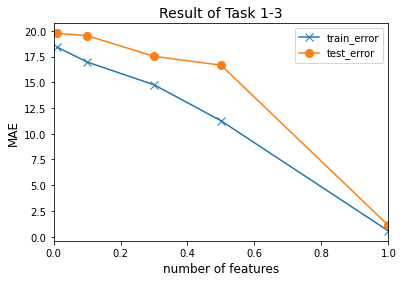
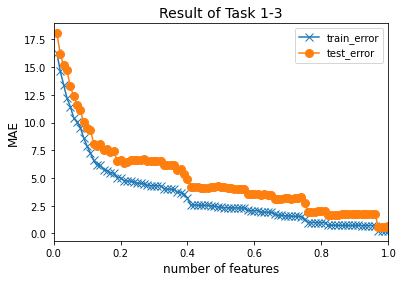
11.03.2022 v2

diff --git a/MyRegressor.py b/MyRegressor.py
@@ -1,7 +1,8 @@
 from sklearn.metrics import mean_absolute_error
+
 import numpy as np
-import random
 from scipy.optimize import linprog
+from sklearn.feature_selection import SelectKBest, f_regression
 
 class MyRegressor:
     def __init__(self, alpha):
@@ -16,49 +17,63 @@ class MyRegressor:
             
         feat_num = int(trainX.shape[1]*percentage)
         
-        maxIter = 100
-        minErr = 1000
-        iter = 0
-        while iter < maxIter:
-            
-            feat_ind = random.sample(range(500),feat_num)
-            err = self.train(trainX[:,feat_ind], trainY)
-            
-            if err < minErr:
-                selected_feat = feat_ind
-                selected_feat.sort()
-                
-            iter += 1
+        selector = SelectKBest(f_regression, k=feat_num)
+        selector.fit_transform(trainX, trainY)
+        feat_bool = selector.get_support()
+        selected_feat = [i for i, x in enumerate(feat_bool) if x]
         
         return selected_feat # The index List of selected features
         
         
-    def select_sample(self, trainX, trainY):
+    def select_sample(self, trainX, trainY, percentage):
         ''' Task 1-4
             Todo: '''
+            
+        N = trainX.shape[0]
+        sample_num = int(trainX.shape[0]*percentage)
+        
+        c = np.linalg.norm(trainX, ord=1, axis=1)
+        A = np.block([
+                      [np.ones([1,N])], 
+                      [-np.ones([1,N])], 
+                      [np.eye(N)],
+                      [-np.eye(N)]
+                      ])
+        b = np.hstack((sample_num, -sample_num, np.ones([N]), np.zeros([N])))
+        integrality = np.ones([N])
+        sol = linprog(c, A_ub=A, b_ub=b, integrality=integrality)
+        
+        sample_bool = sol.x
+        
+        selected_sample = [i for i, x in enumerate(sample_bool) if x]
+        selected_trainX = trainX[selected_sample,:]
+        selected_trainY = trainY[selected_sample]
          
         return selected_trainX, selected_trainY    # A subset of trainX and trainY
 
 
-    def select_data(self, trainX, trainY):
+    def select_data(self, trainX, trainY, p_feature, p_sample):
         ''' Task 1-5
             Todo: '''
         
-        return selected_trainX, selected_trainY
+        selected_feat = self.select_features(trainX, trainY, p_feature)
+        temp_trainX, temp_trainY = self.select_sample(trainX, trainY, p_sample)
+        
+        
+        selected_trainX = temp_trainX[:,selected_feat]
+        selected_trainY = temp_trainY
+        
+        return selected_trainX, selected_trainY, selected_feat
     
     
     def train(self, trainX, trainY):
         ''' Task 1-2
             Todo: '''
-            
         
         Y = trainY
         X = trainX
         N = trainX.shape[0]
         M = trainX.shape[1]
-
-        ## variables: t(N,1), theta(M,1), b(1,1)
-        ## parameters: X(N,M), Y(N,1)
         
         c = np.hstack((1/N*np.ones([1,N]),self.alpha*np.ones([1,M]), np.zeros([1,M+1])))
         A = np.block([
@@ -67,10 +82,9 @@ class MyRegressor:
                       [np.zeros([M,N]), -np.eye(M), np.eye(M), np.zeros([M,1])],
                       [np.zeros([M,N]), -np.eye(M), np.eye(M), np.zeros([M,1])]
                       ])
-        
         b = np.hstack((-Y, Y, np.zeros([M]), np.zeros([M])))
-        
         sol = linprog(c, A_ub=A, b_ub=b)
+        
         self.weight = sol.x[N+M:-1]
         self.bias = sol.x[-1]
         

diff --git a/Task1_5.py b/Task1_5.py
@@ -1,0 +1,44 @@
+import numpy as np
+import utils
+from MyRegressor import MyRegressor
+
+data = utils.prepare_data_gaussian()
+trainX = data['trainX']
+trainY = data['trainY']
+testX = data['testX']
+testY = data['testY']
+
+p_feature_list = np.linspace(0.1,1,10)
+p_sample_list = np.linspace(0.1,1,10)
+train_err  = np.zeros([len(p_feature_list)*len(p_sample_list),1])
+test_err  = np.zeros([len(p_feature_list)*len(p_sample_list),1])
+cost  = np.zeros([len(p_feature_list)*len(p_sample_list)])
+
+c = 0
+    
+for p_feature in p_feature_list:
+    for p_sample in p_sample_list:
+        
+        cost[c] = p_sample*p_feature
+        sol = MyRegressor(alpha=0)
+        selected_trainX, selected_trainY, selected_feat = sol.select_data(trainX, trainY, p_feature, p_sample)
+        train_err[c] = sol.train(selected_trainX, selected_trainY)
+        pred_testY,test_err[c] = sol.evaluate(testX[:,selected_feat], testY)
+        c += 1
+
+seq = np.argsort(cost)
+result = {'taskID':'1-5', 'cost':cost[seq], 'train_err':train_err[seq], 'test_err':test_err[seq]}
+
+utils.plot_result(result)
+
+# p_feature = 0.9
+# p_sample = 0.9
+
+# sol = MyRegressor(alpha=0)
+
+# selected_feat = sol.select_features(trainX, trainY, p_feature)
+# temp_trainX, temp_trainY = sol.select_sample(trainX, trainY, p_sample)
+
+
+# selected_trainX = temp_trainX[:,selected_feat]
+# selected_trainY = temp_trainY

diff --git a/Task1_4.py b/Task1_4.py
@@ -11,18 +11,17 @@ testY = data['testY']
 percentage_list = np.linspace(0.01,1,100)
 train_err  = np.zeros([len(percentage_list),1])
 test_err  = np.zeros([len(percentage_list),1])
-feat_num  = np.zeros([len(percentage_list),1])
 
 c = 0
     
 for percentage in percentage_list:
     
     sol = MyRegressor(alpha=0)
-    selected_feat = sol.select_features(trainX, trainY, percentage)
-    feat_num[c] = int(trainX.shape[1]*percentage)
-    train_err[c] = sol.train(trainX[:,selected_feat], trainY)
-    pred_testY,test_err[c] = sol.evaluate(testX[:,selected_feat], testY)
+    selected_trainX, selected_trainY = sol.select_sample(trainX, trainY, percentage)
+    train_err[c] = sol.train(selected_trainX, selected_trainY)
+    pred_testY,test_err[c] = sol.evaluate(testX, testY)
     c += 1
 
-result = {'taskID':'1-3', 'feat_num':percentage_list, 'train_err':train_err, 'test_err':test_err}
+result = {'taskID':'1-4', 'sample_num':percentage_list, 'train_err':train_err, 'test_err':test_err}
+
 utils.plot_result(result)
